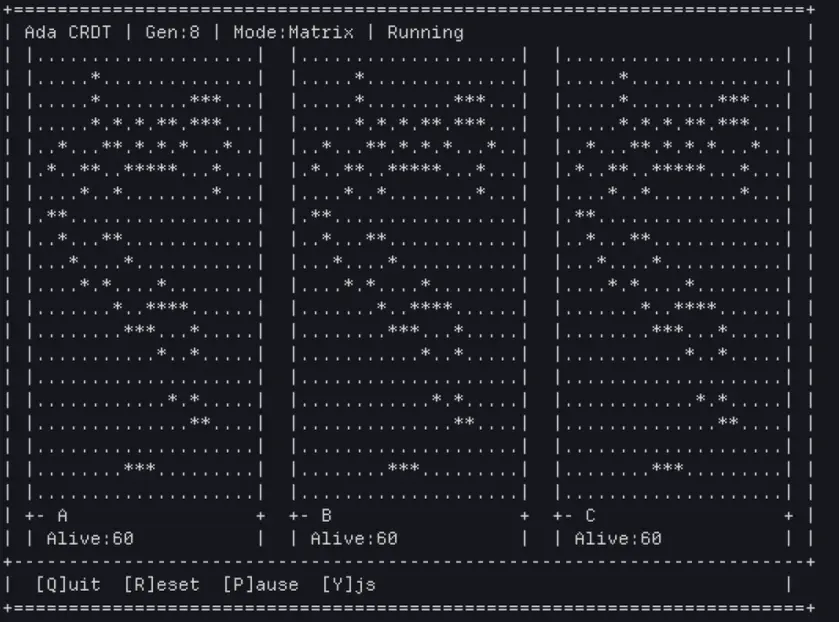
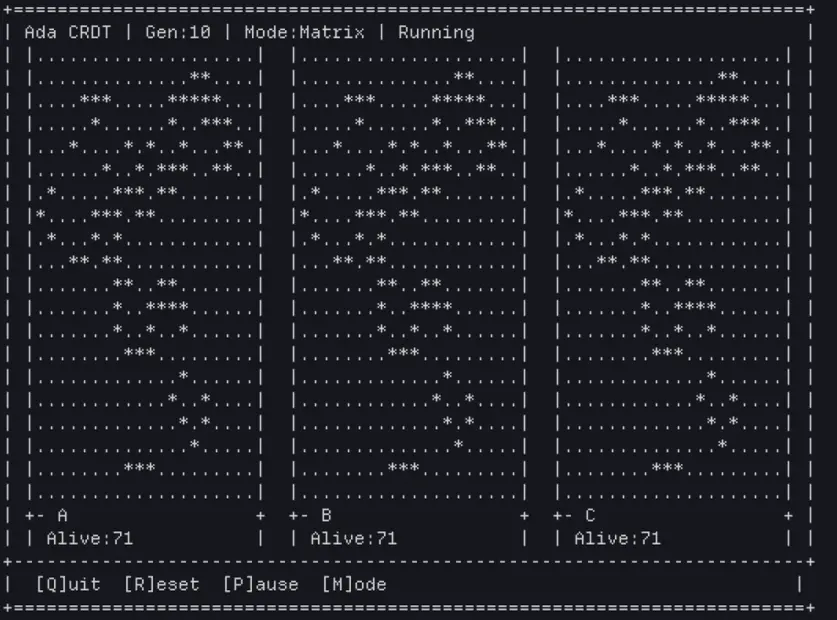
Update README on Conway demo

diff --git a/config/crdt_config.h b/config/crdt_config.h
@@ -2,7 +2,7 @@
 #ifndef CRDT_CONFIG_H
 #define CRDT_CONFIG_H
 
-#define CRATE_VERSION "1.2.0"
+#define CRATE_VERSION "1.3.0"
 #define CRATE_NAME "crdt"
 
 #define ALIRE_HOST_OS "linux"

diff --git a/README.md b/README.md
@@ -246,11 +246,8 @@ Prerequisites: [Alire](https://alire.ada.dev) (manages GNAT automatically),
 
 ![Conway's Game of Life Demo](./demo.webp)
 
-A Conway's Game of Life TUI demo demonstrating CRDT convergence with three
-independent nodes. Each node evolves its own 20x20 grid using Game of Life
-rules, then pairwise merges with peers — nodes converge to identical state
-within 1-2 generations, even when random per-grid pauses temporarily freeze
-individual nodes.
+A real-time TUI simulation of Conway's Game of Life to stress-test and visually
+prove the library's eventual consistency engine across three independent nodes.
 
 ### Running
 
@@ -260,24 +257,34 @@ make demo
 
 ### Features
 
-- **Two CRDT backends** toggled at runtime with `M`:
-  - **Matrix mode**: Each cell is a `(Row, Col)` element in a shared
-    `LWW_Element_Set`. Alive = present with highest-timestamp add; Dead =
-    removed (or never added).
-  - **Yjs_RGA mode**: Each grid row is an RGA `Character` sequence (`.` =
-    dead, `#` = alive). Uses chunk-splitting (Yjs engine) for efficiency.
-    Toggling modes syncs data between representations for each node.
-- **Three nodes (A, B, C)**, each with unique replica ID and Lamport clock.
-  Labels show per-node pause status.
-- **Round-robin merge** every tick between all non-paused node pairs.
-- **Per-grid random pauses** (0-5s) — paused nodes do not evolve or accept
-  merges. When they unpause they evolve one step then merge on the next tick,
-  instantly converging with peers.
-- **Global pause/resume** (`P`) freezes all grids; generation counter only
-  advances when at least one node evolves.
-- **Random seed 42** ensures reproducible gliders + ~30% random cell density.
-- **Ctrl+C** captured gracefully (cursor restore, "Goodbye!" message).
-- **Keybinds**: `Q` quit, `R` reset, `P` pause, `M` mode switch.
+Dual Backends (Toggle with M)
+- Matrix Mode: Tracks live cells as discrete (Row, Col) elements in an
+`LWW_Element_Set`. Uses Lamport timestamps to resolve split-brain conflicts with
+absolute set consistency.
+- `Yjs_RGA` Mode: Tracks grid rows as RGA Character sequences with chunk-splitting.
+Serves as a sequence stress test by continuously sweeping, deleting, and
+rebuilding text rows.
+
+Simulation Boundaries & Performance
+- Eventual Convergence: Replicas achieve strong eventual consistency eventually,
+mimicking real-world gossip protocol behaviours.
+
+- Complexity Evaluation: Tests the RGA merger's $O(n \cdot m)$ sequence loop,
+utilizing linear array pointer scans and an internal O(n²) bubble-sort under
+high-frequency load.
+
+> tldr; RGA is not a great CRDT type for Conway's Game of Life unlike `LWW_Element_Set`.
+
+- Zero-Heap Footprint: Relies on `CRDT.Bounded` types to completely eliminate
+runtime allocation leaks during explosive cell birth/death cycles.
+
+- Split-Brain Testing: Simulates random 0-5s per-node network freezes.
+Disconnected nodes queue updates locally and auto-reconcile seamlessly upon healing.
+
+Controls
+- Terminal Safety: Built on native vt100 escape bindings with robust SIGINT
+handling to guarantee full cursor and attribute restoration on exit.
+- Keybinds: Q Quit, R Reset, P Global Pause, M Toggle Engine Type.
 
 ---
 